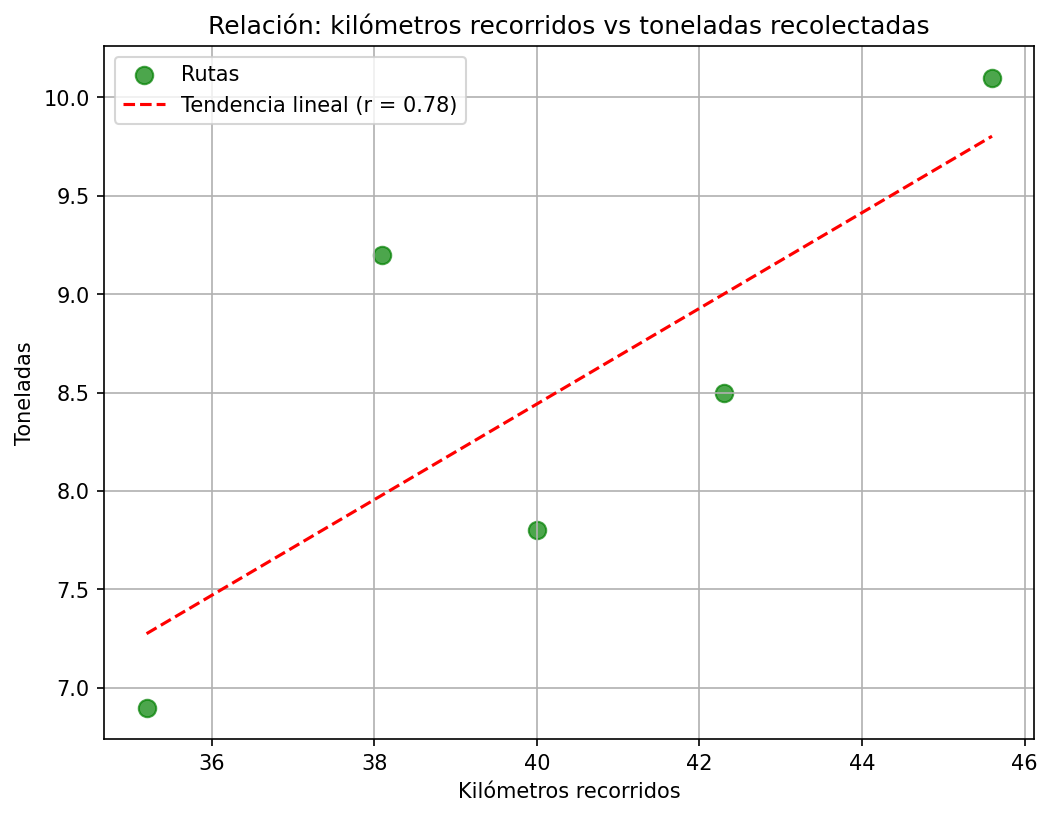
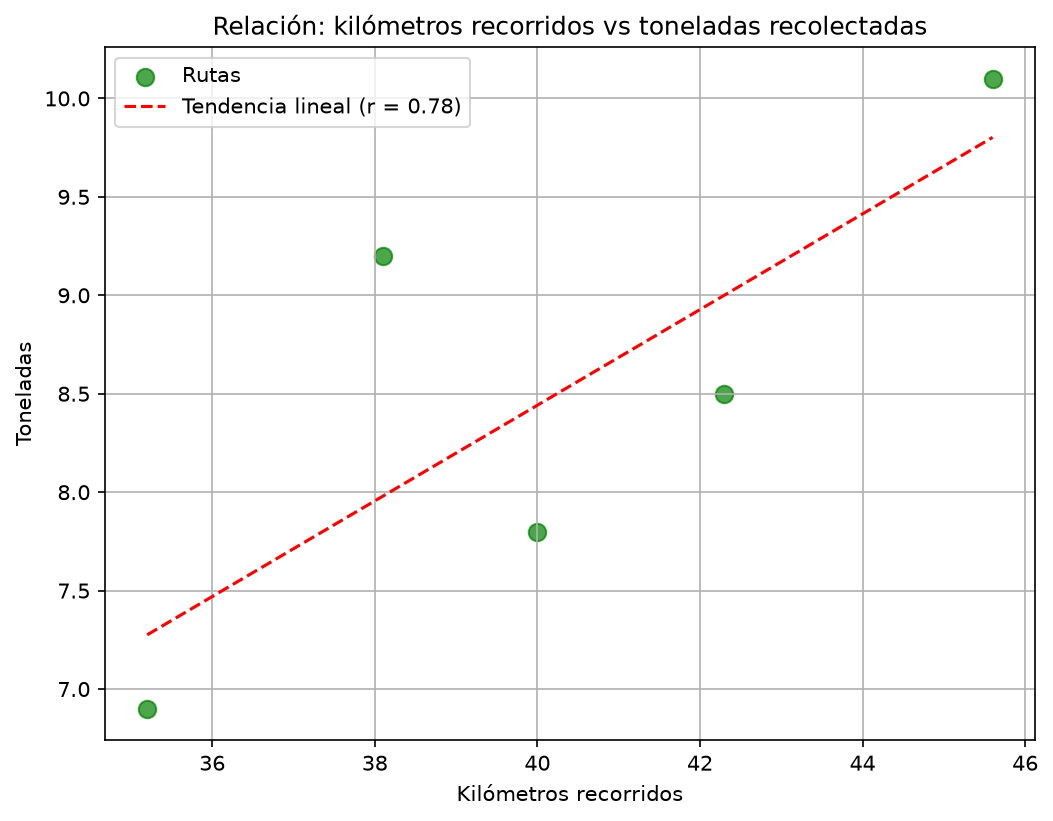
Agrega preparacion_datos.py: limpieza, visualizacion y preparacion de rutas para ML

diff --git a/src/preparacion_datos.py b/src/preparacion_datos.py
@@ -1,0 +1,144 @@
+"""
+preparacion_datos.py
+Carga, limpieza y preparación de datos de rutas de recolección para ML.
+"""
+from pathlib import Path
+
+import pandas as pd
+import matplotlib.pyplot as plt
+import seaborn as sns
+
+# La ruta se calcula desde este archivo, así funciona desde cualquier carpeta
+RUTA_CSV = Path(__file__).resolve().parent.parent / "data" / "rutas_clase8.csv"
+
+DIR_DATA = RUTA_CSV.parent
+sns.set_theme(style="whitegrid", context="talk")
+
+def cargar_datos(ruta_csv):
+    """Carga el CSV y retorna un DataFrame (o None si no existe)."""
+    try:
+        df = pd.read_csv(ruta_csv)
+    except FileNotFoundError:
+        print(f"Error: no existe '{ruta_csv}'.")
+        return None
+    print(f"Datos cargados: {df.shape[0]} filas, {df.shape[1]} columnas.")
+    return df
+
+
+def explorar_datos(df):
+    """Muestra información general y estadísticas descriptivas."""
+    print("\nPRIMERAS 5 FILAS:")
+    print(df.head())
+    print("\nINFORMACIÓN GENERAL:")
+    df.info()
+    print("\nESTADÍSTICAS DESCRIPTIVAS:")
+    print(df.describe())
+    print("\nVALORES NULOS POR COLUMNA:")
+    print(df.isnull().sum())
+
+
+def limpiar_datos(df):
+    """Imputa nulos y crea columnas derivadas."""
+    df_limpio = df.copy()
+
+    # 1. Imputar nulos con la mediana (solo variables de entrada, no 'toneladas')
+    for columna in ["km_recorridos", "combustible_tanqueado"]:
+        mediana = df_limpio[columna].median()
+        df_limpio[columna] = df_limpio[columna].fillna(mediana)
+        print(f"Nulos de '{columna}' imputados con la mediana: {mediana}")
+
+    # 2. Columna derivada: duración de la ruta en minutos
+    inicio = pd.to_datetime(df_limpio["hora_inicio_ruta"], format="%H:%M")
+    fin = pd.to_datetime(df_limpio["hora_fin_ruta"], format="%H:%M")
+    df_limpio["duracion_ruta_min"] = (fin - inicio).dt.total_seconds() / 60
+    print("Columna 'duracion_ruta_min' creada.")
+
+    # 3. Columna derivada: rendimiento de recolección
+    df_limpio["toneladas_por_km"] = df_limpio["toneladas"] / df_limpio["km_recorridos"]
+
+    print("Columna 'toneladas_por_km' creada.")
+
+    return df_limpio
+
+def visualizar_datos(df):
+    """Genera 3 visualizaciones con Seaborn y las guarda en data/."""
+
+    # 1. Distribución de toneladas recolectadas
+    plt.figure(figsize=(8, 5))
+    sns.histplot(data=df, x="toneladas", bins=6, kde=True, color="skyblue")
+    plt.title("Distribución de Toneladas por Ruta")
+    plt.xlabel("Toneladas")
+    plt.ylabel("Frecuencia")
+    plt.tight_layout()
+    plt.savefig(DIR_DATA / "distribucion_toneladas_clase8.png", dpi=150)
+    plt.close()
+
+    # 2. Total de toneladas por conductor
+    plt.figure(figsize=(9, 6))
+    sns.barplot(data=df, x="conductor", y="toneladas", estimator="sum",
+                errorbar=None, hue="conductor", palette="viridis", legend=False)
+    plt.title("Toneladas Totales por Conductor")
+    plt.xlabel("Conductor")
+    plt.ylabel("Toneladas")
+    plt.tight_layout()
+    plt.savefig(DIR_DATA / "toneladas_por_conductor.png", dpi=150)
+    plt.close()
+
+    # 3. Relación entre km recorridos y toneladas
+    plt.figure(figsize=(9, 6))
+    sns.scatterplot(data=df, x="km_recorridos", y="toneladas",
+                    hue="conductor", s=120)
+    plt.title("Km Recorridos vs Toneladas")
+    plt.xlabel("Km recorridos")
+    plt.ylabel("Toneladas")
+    plt.legend(bbox_to_anchor=(1.05, 1), loc="upper left")
+    plt.tight_layout()
+    plt.savefig(DIR_DATA / "km_vs_toneladas_clase8.png", dpi=150)
+    plt.close()
+
+    print("\nGráficos guardados en data/.")
+    
+
+def preparar_ml(df):
+    """Prepara el DataFrame para ML: codificación y selección de columnas."""
+    df_ml = df.copy()
+
+    # 1. One-Hot Encoding para 'conductor' (variable nominal)
+    df_ml = pd.get_dummies(df_ml, columns=["conductor"], prefix="cond", dtype=int)
+    print("\nCodificación One-Hot aplicada a 'conductor'.")
+
+    # 2. Eliminar columnas que no sirven como variables de entrada
+    columnas_a_eliminar = [
+        "ruta_id",            # identificador, no tiene significado predictivo
+        "fecha",              # texto; si se necesita, se derivan mes o día de semana
+        "hora_salida_base",   # texto; su información útil ya está en duracion_ruta_min
+        "hora_inicio_ruta",
+        "hora_fin_ruta",
+        "toneladas_por_km",   # se calcula con 'toneladas' (el objetivo): data leakage
+    ]
+    df_ml = df_ml.drop(columns=columnas_a_eliminar, errors="ignore")
+    print("Columnas no útiles eliminadas.")
+
+    print("\nDATAFRAME LISTO PARA MACHINE LEARNING (primeras 5 filas):")
+    print(df_ml.head())
+    print(f"\nForma final: {df_ml.shape[0]} filas, {df_ml.shape[1]} columnas.")
+
+    return df_ml
+
+def main():
+    df = cargar_datos(RUTA_CSV)
+    if df is None:
+        return
+    explorar_datos(df)
+    df_limpio = limpiar_datos(df)
+    visualizar_datos(df_limpio)
+    df_ml = preparar_ml(df_limpio)
+
+    ruta_salida = DIR_DATA / "rutas_preparadas_ml.csv"
+    df_ml.to_csv(ruta_salida, index=False)
+    print(f"\nDataset preparado guardado en '{ruta_salida}'.")
+    print("Proceso completado exitosamente.")
+
+
+if __name__ == "__main__":
+    main()

diff --git a/README.md b/README.md
@@ -197,3 +197,23 @@ docker --version
 - [x] Código fuente en GitHub, con commits regulares.
 - [x] Documentación (README.md).
 - [ ] Presentación final con demo.
+
+
+## Preparación de Datos
+
+Script: `src/preparacion_datos.py` — dataset: `data/rutas_clase8.csv` (12 rutas, datos ficticios con la estructura real de la empresa).
+
+**Valores nulos:** 2 en `km_recorridos` y 1 en `combustible_tanqueado`. Se imputaron con la mediana de cada columna (63.25 km y 14.0 galones), porque es robusta a valores extremos. `toneladas` (variable objetivo) no se imputa.
+
+**Variables categóricas:** `conductor` se codificó con One-Hot (`pd.get_dummies`), porque es nominal y no tiene orden.
+
+**Columnas derivadas:**
+- `duracion_ruta_min`: minutos entre inicio y fin de ruta; resume los tiempos de viaje en un número.
+- `toneladas_por_km`: rendimiento de recolección. Se usa para análisis, pero se excluye del modelo porque se calcula con la variable objetivo (data leakage).
+
+**Hallazgos de las visualizaciones:**
+- Hay relación positiva entre km recorridos y toneladas recolectadas.
+- Andrés Mejía acumula más toneladas (33.5 t) que Carlos Ruiz (30.4 t) y Luis Gómez (24.5 t). Luis siempre sale con 2 tripulantes y los otros con 3, así que el tamaño de la tripulación puede influir.
+- Las toneladas por ruta se concentran entre 5.9 y 8.7 t.
+
+**Salida:** `data/rutas_preparadas_ml.csv` (8 columnas, listo para el train/test split).
